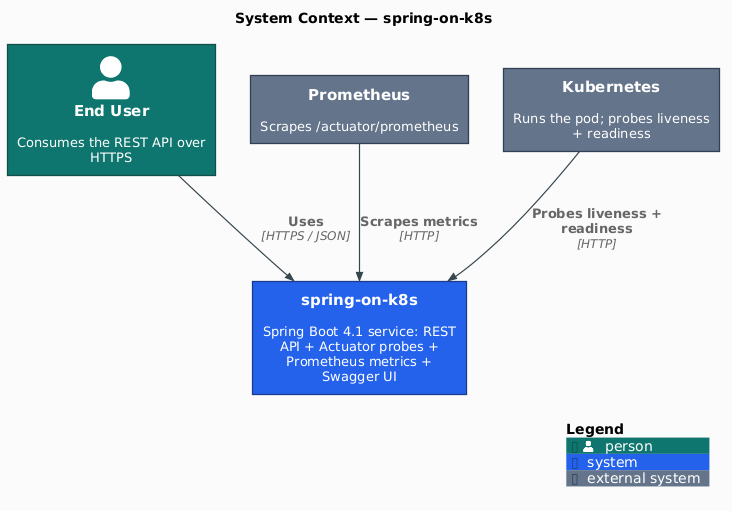
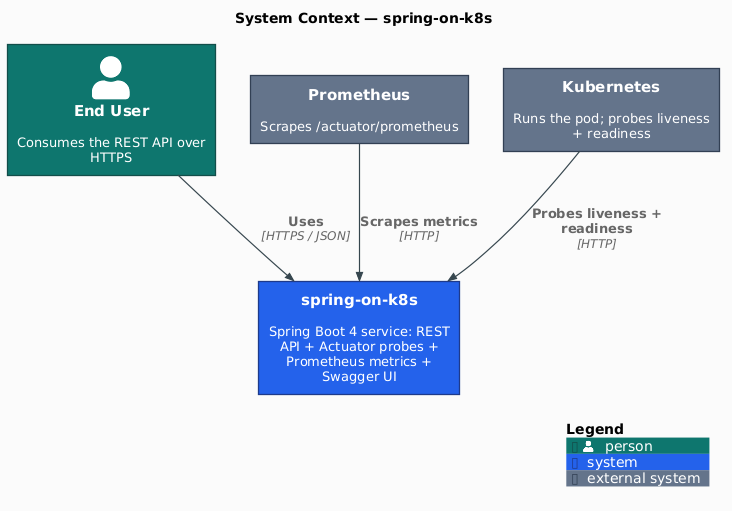
chore: gate stale CVE overrides, isolate diagram bumps, drop rotting versions from docs (#356)
* chore: gate stale CVE overrides, isolate diagram bumps, drop rotting versions from docs

Follow-up to #353/#354, closing what those left as manual upkeep.

check-boot-overrides (new gate, in static-check; self-test in lint):
the temporary tomcat/jackson overrides in pom.xml are only correct while
they are newer than what the Spring Boot parent manages. The gate reads
the parent's spring-boot-dependencies BOM and fails when Boot has caught
up to an override, when an override names a property Boot no longer has,
or when a Boot-managed property is overridden outside the marked block.
Only plain numeric versions are compared; a per-line waiver with a
reason covers a deliberate hold-back.

Renovate: group the plantuml/plantuml renderer and the C4-PlantUML
stdlib into their own "PlantUML diagram toolchain" PR labelled
needs-render. Both need a manual re-render of the committed PNGs, and
the renderer used to ride in the Docker group where it blocked unrelated
base-image bumps.

Docs: stop restating patch versions in prose (Spring Boot, springdoc,
Alpine) in README, CLAUDE.md, the diagrams and comments. They were
already wrong (Boot 4.1.0, springdoc 3.0.3, Alpine 3.23 against an
Alpine 3.24 base). Diagrams re-rendered.

* fix: close false-green paths in check-boot-overrides found in review

A second copy of an override (e.g. in a <profile>), an element wrapped
across lines or written with whitespace in the tag, and a comment line
[…]

Changed region(s): [[0.3306, 0.5284, 0.6612, 0.7926]]

diff --git a/CLAUDE.md b/CLAUDE.md
@@ -4,7 +4,7 @@ This file provides guidance to Claude Code (claude.ai/code) when working with co
 
 ## Project Overview
 
-Spring Boot 4.1.1 reference service for Kubernetes deployment. Exposes REST endpoints (`/v1/hello`, `/v1/bye`), Swagger UI, Prometheus metrics via Actuator, and K8s liveness / readiness probes. Application configuration is overridden at runtime by a mounted ConfigMap via Spring's `configtree:` property source.
+Spring Boot 4 reference service for Kubernetes deployment (exact version: `pom.xml` parent — do not restate patch versions in prose, they rot on every Renovate bump). Exposes REST endpoints (`/v1/hello`, `/v1/bye`), Swagger UI, Prometheus metrics via Actuator, and K8s liveness / readiness probes. Application configuration is overridden at runtime by a mounted ConfigMap via Spring's `configtree:` property source.
 
 ## Build & Run Commands
 
@@ -20,7 +20,7 @@ make run                   # Run locally (mvn spring-boot:run) at http://localho
 Quality / security gates:
 ```bash
 make format                # Apply google-java-format to Java sources
-make static-check          # Composite gate: format-check, lint, secrets, trivy-fs, trivy-config, lint-ci, diagrams-check, carvel-render-check, deps-prune-check
+make static-check          # Composite gate: format-check, lint, check-boot-overrides, secrets, trivy-fs, trivy-config, lint-ci, diagrams-check, carvel-render-check, deps-prune-check
 make diagrams              # Render C4-PlantUML diagrams (docs/diagrams/*.puml → out/*.png) via pinned plantuml/plantuml
 make diagrams-check        # Drift gate: re-render + git diff (fails if committed PNGs are stale); wired into static-check
 make cve-check             # OWASP dependency-check against NVD (canonical settings.xml flow; fast with NVD_API_KEY)
@@ -128,7 +128,7 @@ Items surfaced by `/upgrade-analysis`; last re-run 2026-06-13.
 
 - [ ] **Maven 4.0.0** is still pre-GA — latest is `4.0.0-rc-5` (published 2026-04-29); GA has no committed date ("will be there when it's there"). Monitor; migrate when GA ships and the plugin ecosystem signals stable 4.x support. Last checked 2026-06-13.
 
-- [ ] **Remove the temporary CVE overrides in `pom.xml`** (`tomcat.version` 11.0.25, `jackson-bom.version` 3.1.7, `jackson-2-bom.version` 2.21.7; added 2026-10-02). Spring Boot 4.1.1 manages tomcat 11.0.24 / Jackson 3.1.5 / 2.21.5, which `make trivy-fs` fails on (3 CRITICAL Tomcat + 10 HIGH Jackson findings) and no newer Boot release existed. These properties are **not Renovate-tracked** (the `maven` manager only follows a property referenced as a dependency `<version>`), so two things need a human: (1) when a Spring Boot bump PR lands, delete every override whose value is `<=` what the new Boot manages (`mvn help:effective-pom | grep -E 'tomcat.version|jackson'`) — a leftover override would DOWNGRADE Boot's own version; (2) if `trivy-fs` goes red again on tomcat/jackson before then, the patched floor moved — bump the override.
+- [ ] **Remove the temporary CVE overrides in `pom.xml`** when Spring Boot catches up (the `boot-overrides:begin`/`end` block: `tomcat.version`, `jackson-bom.version`, `jackson-2-bom.version`; added 2026-10-02 against Boot 4.1.1, which manages CVE-affected Tomcat/Jackson). **Enforced, not remembered:** `make check-boot-overrides` (`scripts/check-boot-overrides.sh`, in `static-check`, self-test in `lint`) fails when the Boot parent manages a version `>=` an override, when a block property is no longer in Boot's BOM (renamed/removed), or when a Boot-managed property is overridden outside the block. So a Renovate Spring Boot PR that catches up goes RED on purpose — push the override deletion onto that same PR branch (deleting it on `main` first would re-open the CVE). Deliberately not Renovate-tracked (a tracked override would stay ahead of Boot forever and never be removed); if `trivy-fs` reddens on tomcat/jackson before then, the patched floor moved — bump the override by hand. A deliberate hold-back is waived per line with `<!-- boot-override-ok: reason -->`. Gate blind spot: it reads `<properties>` only, not an explicit dependency `<version>` or `<dependencyManagement>`.
 
 ## Skills
 
@@ -147,13 +147,13 @@ When spawning subagents, always pass conventions from the respective skill into 
 
 - **Java:** Java 21 LTS for source/target/local build; **Java 25 LTS for the runtime image**. `<java.version>21</java.version>` in pom.xml + `JDK_VERSION := 21` in Makefile + `.mise.toml` `java = "temurin-21"` govern the build artifact (compiled bytecode targets Java 21). The Dockerfile runtime stage uses `eclipse-temurin:25-jre-alpine` for the longest-supported in-production JRE. Java 21 bytecode runs forward on Java 25 LTS — verified by the CI `docker` job's smoke test on every release (tag) build.
 - **Compiler:** `failOnWarning=true` is set on maven-compiler-plugin (pom.xml); any javac warning blocks the build
-- **Docker image:** Multi-stage Dockerfile with `eclipse-temurin:25-jre-alpine` runtime (Adoptium-official Java 25 LTS, Alpine 3.23, digest-pinned), layered JAR via `spring-boot-maven-plugin`, runs as UID/GID `65532:65532` (created in the Dockerfile to match the distroless convention). The runtime stage runs `RUN apk --no-cache upgrade` (as root, before the `USER` switch) so baked-in Alpine OS packages are pulled up to the latest in the pinned 3.23 branch at build time — newly-disclosed CVEs that Alpine has already fixed clear immediately instead of waiting on the Adoptium base rebuild (added 2026-06 for CVE-2026-45447 in openssl `3.5.6-r0` → `3.5.7-r0`; the digest-pinned base built 2026-04-30 predated the fix). The `apk upgrade` layer is cache-busted by `ARG APK_UPGRADE_BUST` (referenced in the `RUN`): its cache key is otherwise just the instruction text + the pinned base digest, so `cache-from: type=gha` would reuse a STALE upgrade layer indefinitely and freeze OS packages at first-build state — CI passes `${{ github.run_id }}` (fresh every run) and `make image-build` passes a daily date (`APK_UPGRADE_BUST ?= $(shell date -u +%Y%m%d)`), so the upgrade always reflects the latest Alpine 3.23 packages (added 2026-06 after a cached layer shipped `expat 2.7.5-r0` and failed the image scan on CVE-2026-45186, fixed `2.8.1-r0`). `make image-scan` reproduces the CI `docker` job's blocking Trivy image scan locally (the source-tree `trivy-fs` in `static-check` does not cover the built image's OS packages). Migrated from `gcr.io/distroless/java21-debian13:nonroot` on 2026-05-11 (Java 21 LTS → 25 LTS bump landed via Renovate shortly after); rationale, tradeoffs, and the `apk upgrade` decision in [`docs/adr/0001-runtime-base-image.md`](docs/adr/0001-runtime-base-image.md). BusyBox shell is present (good for `kubectl exec` debugging) — small attack-surface tradeoff documented in the ADR.
+- **Docker image:** Multi-stage Dockerfile with `eclipse-temurin:25-jre-alpine` runtime (Adoptium-official Java 25 LTS, Alpine, digest-pinned), layered JAR via `spring-boot-maven-plugin`, runs as UID/GID `65532:65532` (created in the Dockerfile to match the distroless convention). The runtime stage runs `RUN apk --no-cache upgrade` (as root, before the `USER` switch) so baked-in Alpine OS packages are pulled up to the latest in the pinned 3.23 branch at build time — newly-disclosed CVEs that Alpine has already fixed clear immediately instead of waiting on the Adoptium base rebuild (added 2026-06 for CVE-2026-45447 in openssl `3.5.6-r0` → `3.5.7-r0`; the digest-pinned base built 2026-04-30 predated the fix). The `apk upgrade` layer is cache-busted by `ARG APK_UPGRADE_BUST` (referenced in the `RUN`): its cache key is otherwise just the instruction text + the pinned base digest, so `cache-from: type=gha` would reuse a STALE upgrade layer indefinitely and freeze OS packages at first-build state — CI passes `${{ github.run_id }}` (fresh every run) and `make image-build` passes a daily date (`APK_UPGRADE_BUST ?= $(shell date -u +%Y%m%d)`), so the upgrade always reflects the latest Alpine packages (added 2026-06 after a cached layer shipped `expat 2.7.5-r0` and failed the image scan on CVE-2026-45186, fixed `2.8.1-r0`). `make image-scan` reproduces the CI `docker` job's blocking Trivy image scan locally (the source-tree `trivy-fs` in `static-check` does not cover the built image's OS packages). Migrated from `gcr.io/distroless/java21-debian13:nonroot` on 2026-05-11 (Java 21 LTS → 25 LTS bump landed via Renovate shortly after); rationale, tradeoffs, and the `apk upgrade` decision in [`docs/adr/0001-runtime-base-image.md`](docs/adr/0001-runtime-base-image.md). BusyBox shell is present (good for `kubectl exec` debugging) — small attack-surface tradeoff documented in the ADR.
 - **Buildpacks alternative:** `mvn spring-boot:build-image` with Paketo builder
 - **CI workflows** (`.github/workflows/`):
   - `ci.yml` — 9 jobs: `changes` (path filter via `dorny/paths-filter`) → `static-check` → { `build`, `test`, `integration-test` } (parallel) → { `e2e` (needs build + test), `docker` (needs `build`, `test`, `cve-check`; **`v*` tag or published Release**), `cve-check` (**`v*` tag or published Release**) } → `ci-pass` (branch-protection gate, `if: always()`, treats `skipped` as PASS). The `docker` (image build/scan/publish) and `cve-check` (OWASP dependency-check) jobs are **release-only gates**: they run only on a `v*` tag push **or** a published GitHub Release (`on: release: types: [published]`) — never on regular pushes/PRs, never on manual `workflow_dispatch`, and no longer on a weekly schedule (the `schedule:` trigger was removed 2026-06-29; the `workflow_dispatch` clause was removed shortly after, then the `release: published` event was added, per the owner's "cve-check only on tags/releases" directive). On a `release` event `github.ref` is the tag ref, so the step-level `startsWith(github.ref,'refs/tags/')` publish/sign gates fire; a tag-push + same-ref Release-publish dedup via the `CI-<ref>` concurrency group (cancel-in-progress). On every non-tag/non-release event both jobs are `skipped`, which `ci-pass` treats as PASS. Path filtering happens **inside** the workflow, not at the trigger level — Repository Rulesets requiring `ci-pass` would deadlock on doc-only changes if `paths-ignore` filtered triggers (no run → no `ci-pass` status). Every code-running job gates on `needs.changes.outputs.code == 'true'`; doc-only PRs skip the heavy jobs and `ci-pass` still goes green. Every job uses `jdx/mise-action` to provision java+maven+CLI tools from `.mise.toml`; `actions/cache` handles `~/.m2/repository` separately. The `docker` job follows Pattern A, single-arch (`linux/amd64`): Gates 1–3 (build + Trivy image scan blocking CRITICAL/HIGH with `scanners=vuln,secret,misconfig` + `container-structure-test` Dockerfile-contract assertions via `make docker-structure-test` + smoke test via `make docker-smoke-test`) run on every tag build, then DAST runs inline (OWASP ZAP baseline `-I` warn-only against the running smoke container; ZAP image is `actions/cache`-d so subsequent runs load in seconds; all DAST steps gated by `vars.ACT != 'true'`); Gate 4 publish build + Gate 5 cosign keyless signing happen only when `github.ref` is a tag ref (true on both a `v*` tag push and a published Release). `provenance: false` + `sbom: false` keep the image index clean. Multi-arch (amd64+arm64) is intentionally disabled — the project ships a single linux/amd64 image, so there is no `docker/setup-qemu-action` step (single-arch builds need no cross-arch emulation). The DAST steps (formerly a separate `dast` job, since 2026-05-03) live inside `docker` after Gate 3 to share the already-built `spring-on-k8s:ci-scan` image and the running smoke container — eliminates the duplicate ~30–60s build and the duplicated cleanup. Run `make dast` directly to cover the act-gap locally. After the first `v*` tag publishes, verify the published manifest per README §"Post-release manifest verification" (`docker buildx imagetools inspect` shows `linux/amd64` with zero `unknown/unknown` entries; GHCR Packages UI lists the package; `cosign verify` succeeds)
   - `cleanup-runs.yml` (workflow `Cleanup old workflow runs`) — weekly Sunday 00:00 UTC, two jobs: `cleanup-runs` prunes old workflow runs via `gh run delete` (retain 7 days, keep 5 minimum); `cleanup-caches` deletes actions caches scoped to deleted refs (frees room against the 10 GB repo cache limit)
 - **Version manager:** [mise](https://mise.jdx.dev/) is the single source of truth for every CLI tool the build needs — Java, Maven, Node, kubectl, kind, act, hadolint, gitleaks, trivy, actionlint, shellcheck, container-structure-test all pin in `.mise.toml`. `make deps` bootstraps mise (if missing) and runs `mise install`. The Makefile retains a short list of `_VERSION` constants only for things mise does not manage: `GJF_VERSION` (google-java-format JAR), `DEPCHECK_VERSION` (Maven plugin), `PLANTUML_VERSION` (Docker image — PlantUML renderer), `KIND_NODE_IMAGE` (Docker image digest — bumped manually in tandem with kind in `.mise.toml`; not Renovate-trackable), `CLOUD_PROVIDER_KIND_VERSION` (Docker image tag on registry.k8s.io), `ACT_UBUNTU_VERSION` (catthehacker/ubuntu image used by `make ci-run`/`ci-run-tag`), `ZAP_VERSION` (`ghcr.io/zaproxy/zaproxy` Docker image used by `make dast` and the inline DAST steps inside the `docker` CI job — also duplicated as a workflow-level `env:` literal in `ci.yml`; both copies are Renovate-tracked — the Makefile copy by the Makefile `customManager` regex, the workflow copy by the workflow `customManager` regex — so a Renovate PR for `zaproxy/zaproxy` bumps them together)
-- **Renovate:** `renovate.json` drives automated dependency updates. Enabled managers: `maven`, `github-actions`, `dockerfile`, `kubernetes` (scoped to `k8s/*.ya?ml`), `mise` (native `.mise.toml` reader — tracks Java/Maven/Node/CLI tools + Carvel `ytt`/`kapp` via `aqua:` backend), and `custom.regex`. Four `customManagers` regexes track inline `# renovate:` comments — one for the Makefile (`_VERSION` constants for non-mise tools: `GJF_VERSION`, `DEPCHECK_VERSION`, `PLANTUML_VERSION`, `CLOUD_PROVIDER_KIND_VERSION`, `ZAP_VERSION`, `ACT_UBUNTU_VERSION` — the Makefile regex carries an optional `extractVersion=` group and a digit-or-word-anchored `currentValue`, so `extractVersion`-annotated and non-numeric tags like `act-24.04` are both tracked), one for `.github/workflows/*.ya?ml` `env:` literals (the `docker` job's `ZAP_VERSION` env block), one for `pom.xml` (the Paketo buildpacks builder image tag in `<image.builder>`, which the native `maven` manager does not extract — it reads only Maven coordinates), and one for `docs/diagrams/*.puml` (the C4-PlantUML stdlib version in the `!include` URLs, datasource `github-releases` depName `plantuml-stdlib/C4-PlantUML`). `ZAP_VERSION` is annotated in both Makefile and workflow; each manager tracks its own copy. The native `mise` manager is the single source of truth for `.mise.toml`; do NOT add a `custom.regex` over `.mise.toml` (duplicates the native manager, produces two PRs per bump). A `minimumReleaseAge: "3 days"` packageRule is **manager-wide on every mise-managed tool** (not just Carvel) because the mise backends resolve binaries from GitHub Releases and upstream projects tag `vX.Y.Z` before publishing the release artifacts — the buffer lets the artifacts publish before Renovate opens the PR (`mise install` would otherwise 404; see PR #228 closed 2026-05-11 for the failure shape). The pom.xml/Makefile `custom.regex` docker pins carry `pinDigests: false` (a tag bump, not a digest pin, is the intended update for a bare `IMAGE:TAG`).
+- **Renovate:** `renovate.json` drives automated dependency updates. Enabled managers: `maven`, `github-actions`, `dockerfile`, `kubernetes` (scoped to `k8s/*.ya?ml`), `mise` (native `.mise.toml` reader — tracks Java/Maven/Node/CLI tools + Carvel `ytt`/`kapp` via `aqua:` backend), and `custom.regex`. Four `customManagers` regexes track inline `# renovate:` comments — one for the Makefile (`_VERSION` constants for non-mise tools: `GJF_VERSION`, `DEPCHECK_VERSION`, `PLANTUML_VERSION`, `CLOUD_PROVIDER_KIND_VERSION`, `ZAP_VERSION`, `ACT_UBUNTU_VERSION` — the Makefile regex carries an optional `extractVersion=` group and a digit-or-word-anchored `currentValue`, so `extractVersion`-annotated and non-numeric tags like `act-24.04` are both tracked), one for `.github/workflows/*.ya?ml` `env:` literals (the `docker` job's `ZAP_VERSION` env block), one for `pom.xml` (the Paketo buildpacks builder image tag in `<image.builder>`, which the native `maven` manager does not extract — it reads only Maven coordinates), and one for `docs/diagrams/*.puml` (the C4-PlantUML stdlib version in the `!include` URLs, datasource `github-releases` depName `plantuml-stdlib/C4-PlantUML`). `ZAP_VERSION` is annotated in both Makefile and workflow; each manager tracks its own copy. The native `mise` manager is the single source of truth for `.mise.toml`; do NOT add a `custom.regex` over `.mise.toml` (duplicates the native manager, produces two PRs per bump). A `minimumReleaseAge: "3 days"` packageRule is **manager-wide on every mise-managed tool** (not just Carvel) because the mise backends resolve binaries from GitHub Releases and upstream projects tag `vX.Y.Z` before publishing the release artifacts — the buffer lets the artifacts publish before Renovate opens the PR (`mise install` would otherwise 404; see PR #228 closed 2026-05-11 for the failure shape). The two render-affecting diagram pins (`plantuml/plantuml` renderer image + the C4-PlantUML stdlib) are grouped into their own `PlantUML diagram toolchain` PR, labelled `needs-render`, by a packageRule placed AFTER the Docker group so its `groupName` wins: that PR is red on `diagrams-check` until a human runs `make diagrams` and pushes the PNGs (Renovate cannot regenerate them), and keeping it out of the Docker group stops a diagram bump from blocking Dockerfile/base-image updates. The pom.xml/Makefile `custom.regex` docker pins carry `pinDigests: false` (a tag bump, not a digest pin, is the intended update for a bare `IMAGE:TAG`).
 - **Trivy suppressions:** `.trivyignore` documents demo-scope K8s hardening exceptions and upstream CVEs tracked by Renovate
 - **cve-check resilience (`scripts/cve-check.sh`)** — `make cve-check` is driven by this script, which implements the portfolio `/ci-workflow` NVD-resilience pattern: dependency-check treats a failed NVD *update* as fatal (no "use cached DB on update failure" flag), so a transient NVD-API outage (`NVD Returned Status Code: 503`) or a corrupt cached H2 DB would red the build even on a clean dependency tree. The script classifies the failure and recovers — real CVE finding → fail (never masked); `MVStoreException` (corrupt cache) → `purge` + re-download once; NVD update failure + a populated cached DB → re-scan with `-DautoUpdate=false`; no cached DB → fail honestly. **Precedence is load-bearing** (unambiguous corruption marker → 503 signal → shared `connectionPool`/`NoDataException` consequence markers, in that order); `make lint` runs `scripts/cve-check.sh --self-test` which mutation-proves the ordering. NVD_API_KEY secret handling (private `settings.xml` via the `printf` builtin, `-DnvdApiServerId=nvd`, no argv leak) lives in the script. **Known gap:** dependency-check runs CLI-only with no `failBuildOnCVSS`, so its default (11) means the scan currently does NOT fail on CVE findings — it reports + fails only on errors; lowering `failBuildOnCVSS` to make it a true CVE gate is a deliberate follow-up (could start blocking releases on pre-existing advisories)
 - **`docker` and `cve-check` are release-only gates.** `cve-check` carries `if: needs.changes.outputs.code == 'true' && (startsWith(github.ref, 'refs/tags/') || github.event_name == 'release')` and `docker` carries `if: ${{ !failure() && !cancelled() && needs.changes.outputs.code == 'true' && (startsWith(github.ref, 'refs/tags/') || github.event_name == 'release') }}`, so both run only on a `v*` tag push **or** a published GitHub Release (`on: release: types: [published]`) — not on regular pushes/PRs and not on manual `workflow_dispatch`. `cve-check` is in `docker.needs` so a real CVE failure on a tag/release blocks the publish, and `!failure() && !cancelled()` honors upstream failures. On every non-tag/non-release event both jobs are `skipped`; `ci-pass` lists both in `needs:` and treats `skipped` as PASS for branch-protection completeness. (`workflow_dispatch` remains a workflow trigger so build/test/e2e/static-check can be run manually, but it no longer triggers the two release-only jobs.)

diff --git a/README.md b/README.md
@@ -19,11 +19,11 @@ Reference implementation of a production-pattern Spring Boot 4 service on Kubern
 | Component | Technology | Rationale |
 |-----------|-----------|-----------|
 | Language | Java 21 source/target, Java 25 LTS runtime | Project compiles for Java 21 LTS (`pom.xml` `<java.version>21</java.version>`); the published image ships a Java 25 LTS JRE for the longest-supported in-production runtime. Java 21 bytecode runs forward on Java 25 |
-| Framework | Spring Boot 4.1.1 | Reference target; built-in Actuator covers probes, metrics, and info |
-| API style | REST + OpenAPI via [springdoc-openapi](https://springdoc.org/) 3.0.3 | OpenAPI generated from controller annotations — no separate spec to drift |
+| Framework | Spring Boot 4 (exact version: `pom.xml` parent) | Reference target; built-in Actuator covers probes, metrics, and info |
+| API style | REST + OpenAPI via [springdoc-openapi](https://springdoc.org/) 3 | OpenAPI generated from controller annotations — no separate spec to drift |
 | Metrics | [Micrometer](https://micrometer.io/) + Prometheus registry | Spring Boot default; zero-config Prometheus scrape endpoint |
 | Build | Maven 3.9.16 | Mature Spring Boot tooling; `pom.xml` plays well with Renovate |
-| Container | Multi-stage Dockerfile, `eclipse-temurin:25-jre-alpine` runtime, non-root user (UID/GID 65532) | Adoptium-official Java 25 LTS on Alpine 3.23 — faster CVE turnaround than Google's distroless (rationale and tradeoffs in [`docs/adr/0001-runtime-base-image.md`](docs/adr/0001-runtime-base-image.md)); nonroot UID enables K8s restricted pod security |
+| Container | Multi-stage Dockerfile, `eclipse-temurin:25-jre-alpine` runtime, non-root user (UID/GID 65532) | Adoptium-official Java 25 LTS on Alpine — faster CVE turnaround than Google's distroless (rationale and tradeoffs in [`docs/adr/0001-runtime-base-image.md`](docs/adr/0001-runtime-base-image.md)); nonroot UID enables K8s restricted pod security |
 | Orchestration | Kubernetes, deployed via [Carvel](https://carvel.dev/) (`ytt` + `kapp`) | Carvel is GitOps-friendly without the Helm template-hell; `ytt` overlays beat string substitution |
 | Local K8s | [KinD](https://kind.sigs.k8s.io/) + [cloud-provider-kind](https://github.com/kubernetes-sigs/cloud-provider-kind) (test target node image: `kindest/node:v1.36.1`) | KinD is what upstream K8s uses for testing; cloud-provider-kind allocates LB IPs without MetalLB's nftables fragility |
 | CI/CD | GitHub Actions (per-concern jobs; details in [CI/CD section](#cicd)) | Native to GitHub; SHA-pinned actions; one `ci-pass` aggregator gates the whole pipeline |
@@ -109,7 +109,7 @@ Sources: the three C4 diagrams are [C4-PlantUML](https://github.com/plantuml-std
 
 ## Build & Package
 
-A multi-stage [Dockerfile](./Dockerfile) builds an `eclipse-temurin:25-jre-alpine` runtime image (Java 25 LTS, Alpine 3.23) with a non-root user (UID/GID 65532) and Spring Boot JAR layering. The build stage uses `maven:3.9.16-eclipse-temurin-21` so the artifact compiles for Java 21 LTS bytecode and runs forward on the Java 25 LTS JRE. See [`docs/adr/0001-runtime-base-image.md`](docs/adr/0001-runtime-base-image.md) for the base-image decision (distroless → Alpine, 2026-05-11).
+A multi-stage [Dockerfile](./Dockerfile) builds an `eclipse-temurin:25-jre-alpine` runtime image (Java 25 LTS, Alpine) with a non-root user (UID/GID 65532) and Spring Boot JAR layering. The build stage uses `maven:3.9.16-eclipse-temurin-21` so the artifact compiles for Java 21 LTS bytecode and runs forward on the Java 25 LTS JRE. See [`docs/adr/0001-runtime-base-image.md`](docs/adr/0001-runtime-base-image.md) for the base-image decision (distroless → Alpine, 2026-05-11).
 
 ```bash
 make image-build                                         # build
@@ -220,7 +220,7 @@ Run `make help` to see all available targets.
 | `make vulncheck` | Alias for `cve-check` (portfolio-standard target name) |
 | `make deps-prune` | Report unused/undeclared Maven dependencies |
 | `make deps-prune-check` | Fail if unused/undeclared Maven dependencies found |
-| `make static-check` | Composite gate: format-check + lint + secrets + trivy-fs + trivy-config + lint-ci + diagrams-check + carvel-render-check + deps-prune-check |
+| `make static-check` | Composite gate: format-check + lint + check-boot-overrides + secrets + trivy-fs + trivy-config + lint-ci + diagrams-check + carvel-render-check + deps-prune-check |
 
 ### Docker
 
@@ -241,6 +241,7 @@ Run `make help` to see all available targets.
 |--------|-------------|
 | `make deploy` | Production deploy via Carvel (`ytt -f ./k8s \| kapp deploy`) to the current kube-context; guards ytt/kapp presence + runs `carvel-render-check` |
 | `make undeploy` | Remove the Carvel app (`kapp delete -a spring-on-k8s`) |
+| `make check-boot-overrides` | Fail when the Spring Boot parent has caught up to a temporary CVE override in `pom.xml` (a stale override silently downgrades what Boot ships; also in `make static-check`) |
 | `make carvel-render-check` | Cluster-free gate: `ytt -f ./k8s` renders Namespace + ConfigMap + Deployment + Service (also in `make static-check`) |
 | `make kind-up` | Bring the full stack up: create cluster → start cloud-provider-kind → load image → deploy (local path uses `kubectl apply`) |
 | `make kind-down` | Tear the cluster down |
